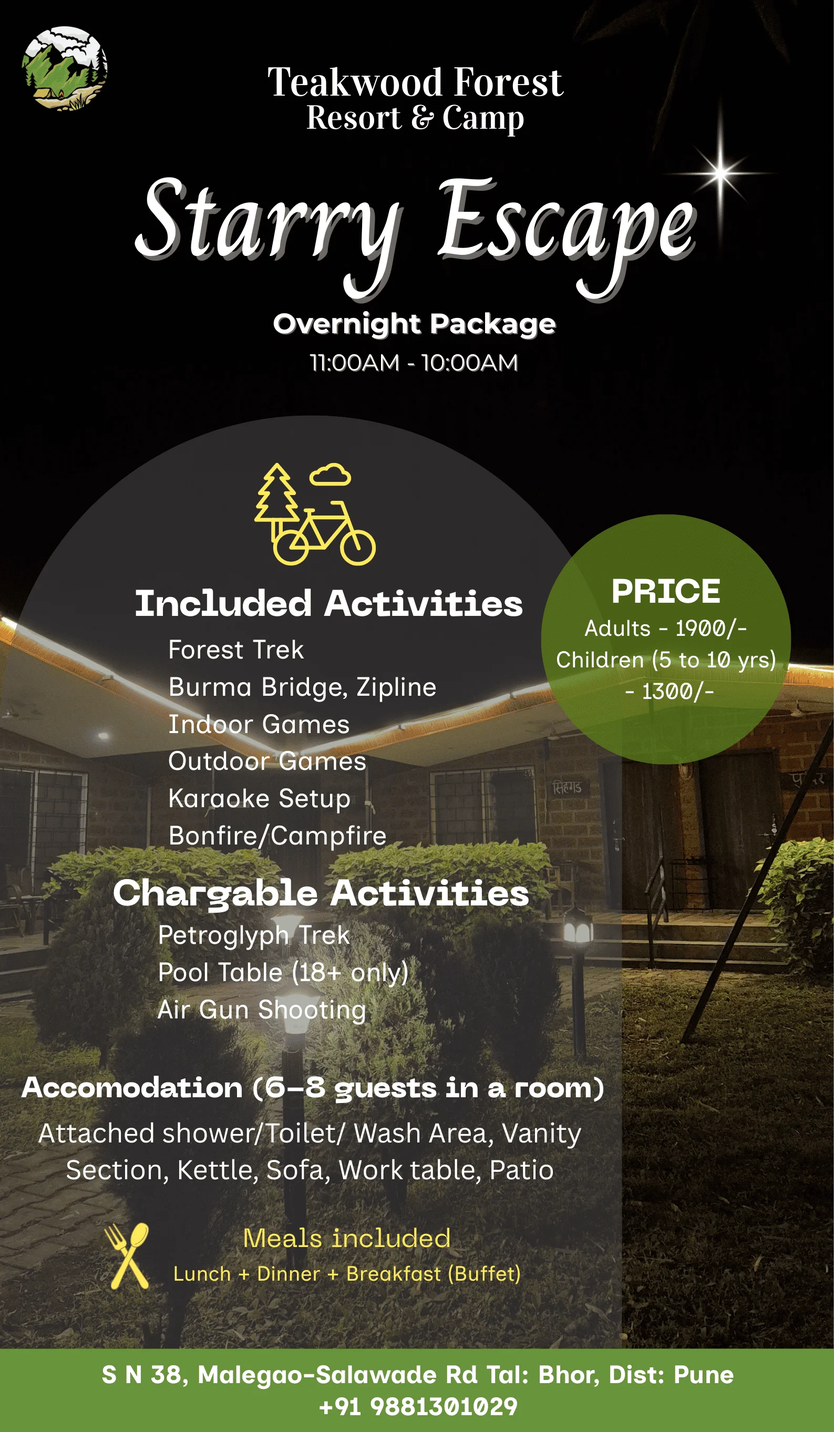
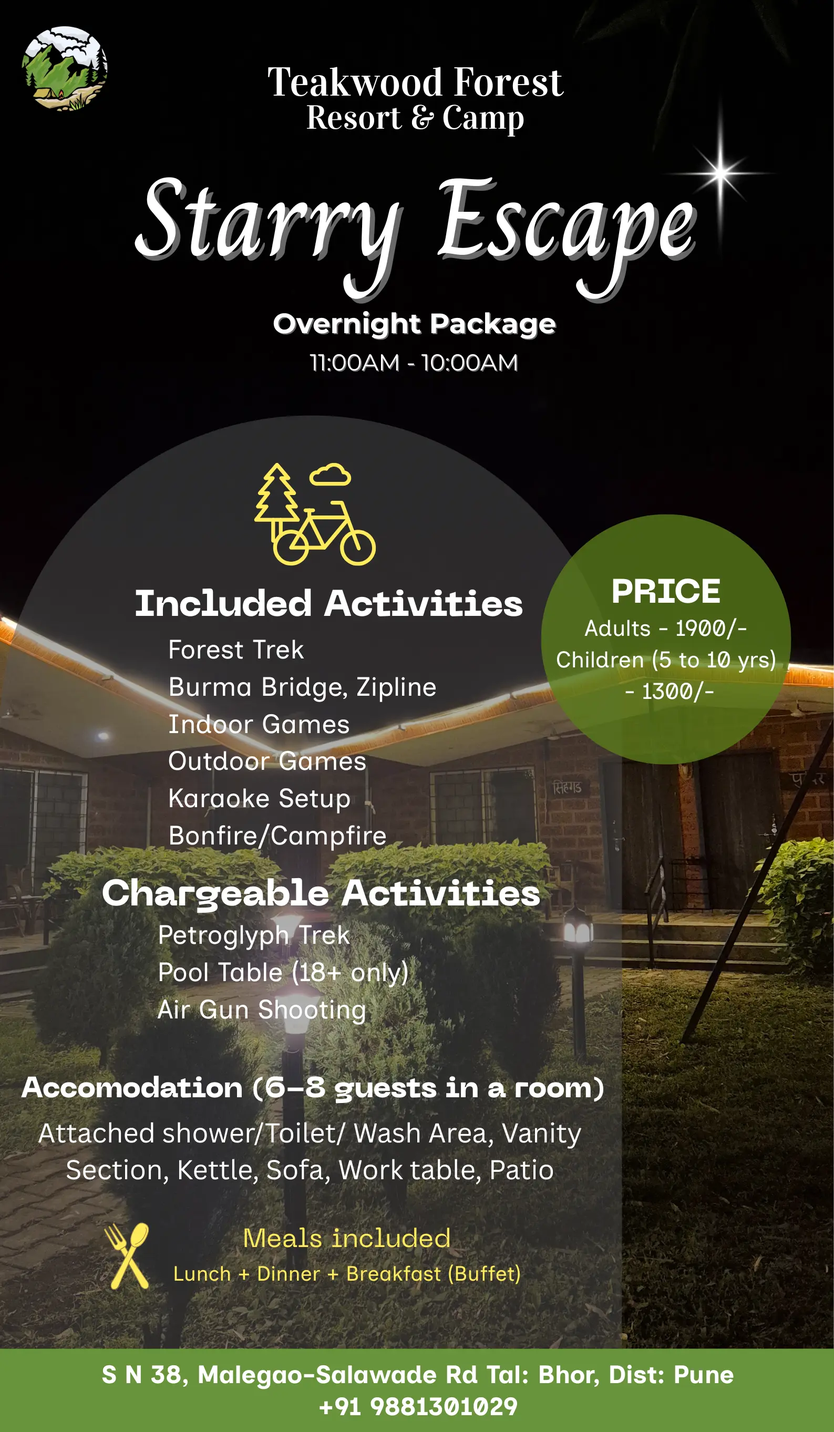
minor changes

diff --git a/src/pages/FAQ.jsx b/src/pages/FAQ.jsx
@@ -24,8 +24,8 @@ const FAQ = () => {
       a: "Yes. Burma bridge, zip line, private trek, waterfall visit, farm tour and various group games can be played at the grounds inside the private forest.",
     },
     {
-      q: "Can we bring our own food?",
-      a: "No. Outside food is not allowed. We have a fully serviced restaurant and can cater to your preferences.",
+      q: "Can I carry my own food and alcohol?",
+      a: "Outside food and beverages are strictly prohibited.You can carry your own liquor, but it must be consumed in designated areas. Mixers, cold water, and ice are available for a charge.",
     },
     { q: "Is there a power backup just in case?", a: "Yes. A 45KVA generator supports the complete Resort." },
     { q: "Is it pet friendly?", a: "No. We do not allow pets in the resort." },

diff --git a/src/components/Home/Property.jsx b/src/components/Home/Property.jsx
@@ -32,7 +32,7 @@ const ViewPropertySection = () => {
         {/* YouTube Video */}
         <div className="video-wrapper">
           <a
-            href="https://www.instagram.com/p/DQ6qUK_iAZX/"
+            href="https://youtu.be/jE5-T6VxHL4?si=XE1x0c9VeHud5_TP"
             target="_blank"
             rel="noopener noreferrer"
             className="video-card"
